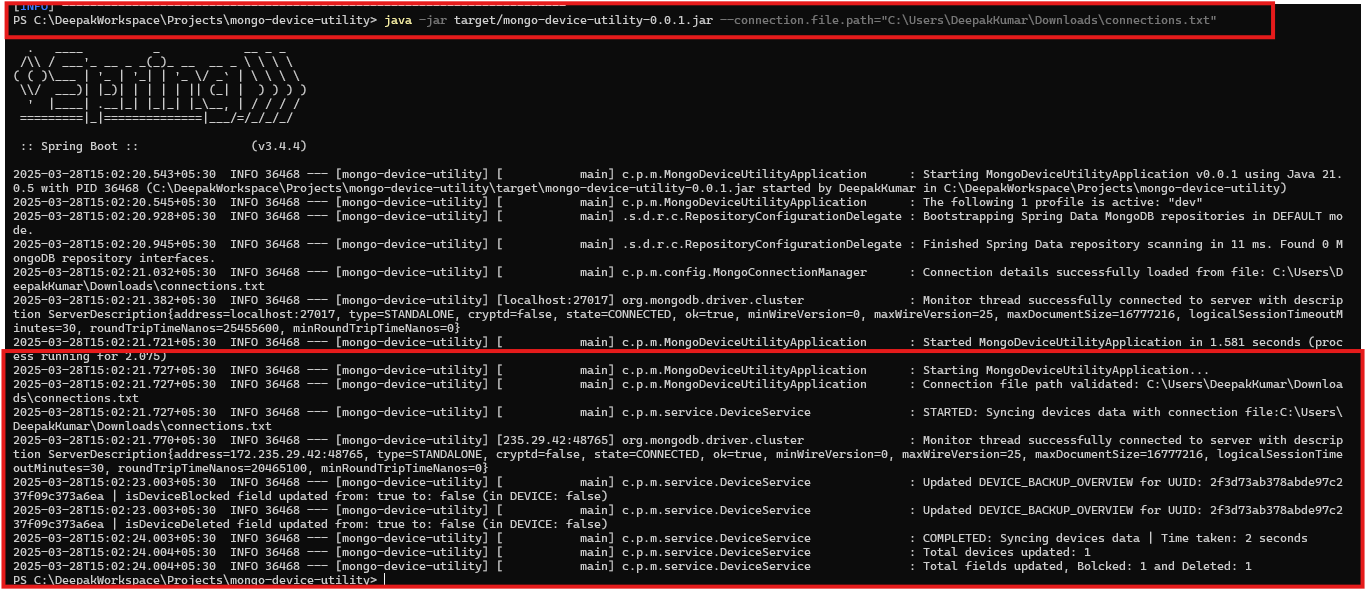
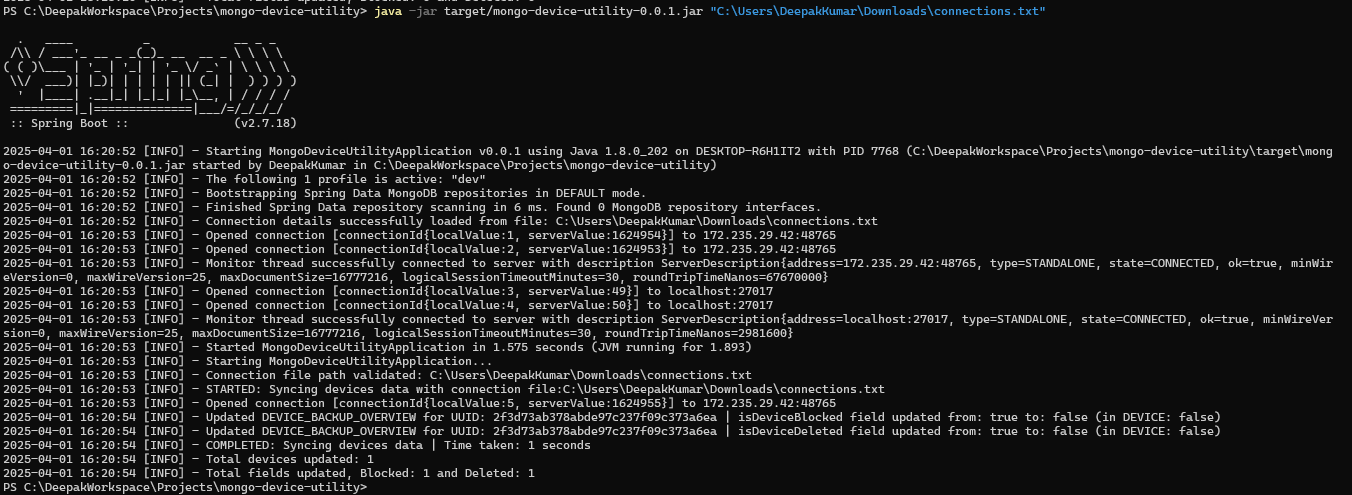
Downgrade Spring Boot version for JDK 8 compatibility, simplify file path handling, refactor MongoTemplate injection, and add Logback logging configuration
- Downgraded Spring Boot version from 3.4.4 to 2.7.18 to ensure compatibility with JDK 8, as the server is running JDK 8.
- Updated Java version configuration to 1.8 for compatibility with JDK 8 and Plugin settings to compile for JDK 8.
- Simplified command-line argument for connection file path; now the file can be passed directly without using the `--connection.file.path` argument.
- Refactored MongoTemplate usage in the `syncDevicesData` method to use constructor injection instead of local instantiation, following best practices for dependency injection.
- Introduced default values for `host` and `port` in MongoDB connection to avoid missing details.
- Added a Logback configuration for logging to both console and rolling file, with a retention policy of 15 days.

Changed region(s): [[0.0, 0.0, 1.0, 1.0]]

diff --git a/src/main/java/com/parablu/mongo_device_utility/service/DeviceService.java b/src/main/java/com/parablu/mongo_device_utility/service/DeviceService.java
@@ -21,7 +21,6 @@ import java.util.List;
 
 import org.slf4j.Logger;
 import org.slf4j.LoggerFactory;
-import org.springframework.beans.factory.annotation.Autowired;
 import org.springframework.data.mongodb.core.MongoTemplate;
 import org.springframework.data.mongodb.core.query.Criteria;
 import org.springframework.data.mongodb.core.query.Query;
@@ -37,21 +36,24 @@ public class DeviceService {
 
 	private static final Logger logger = LoggerFactory.getLogger(DeviceService.class);
 
-	@Autowired
-	private MongoConnectionManager connectionManager;
+	private final MongoConnectionManager connectionManager;
+	private final MongoTemplate mongoTemplate;
 
 	// Counters
 	private int totalUpdatedDevices = 0;
 	private int totalUpdatedBlockedFields = 0;
 	private int totalUpdatedDeletedFields = 0;
+	
+	public DeviceService(MongoConnectionManager connectionManager) {
+		this.connectionManager = connectionManager;
+		this.mongoTemplate = connectionManager.getMongoTemplateForClient("mongotemplate");
+	}
 
 	public void syncDevicesData(String connectionFilePath) {
 		long startTime = System.currentTimeMillis();
 		logger.info("STARTED: Syncing devices data with connection file:{}", connectionFilePath);
 
-		try {
-			MongoTemplate mongoTemplate = connectionManager.getMongoTemplateForClient("mongotemplate");
-			
+		try {	
 			List<Device> devices = mongoTemplate.findAll(Device.class);
 
 			if (devices.isEmpty()) {
@@ -74,27 +76,21 @@ public class DeviceService {
 
 				// Update only relevant fields if necessary
 				if (device.isBlocked() != backupOverview.isDeviceBolcked()) {
-					update.set("isDeviceBolcked", device.isBlocked());
-					updated = true;
-					logger.info(
-					    "Updated DEVICE_BACKUP_OVERVIEW for UUID: {} | isDeviceBlocked field updated from: {} to: {} (in DEVICE: {})",
-					    device.getDeviceUUID(),
-					    backupOverview.isDeviceBolcked(),    // Previous value in DEVICE_BACKUP_OVERVIEW
-					    device.isBlocked(),          // Updated value from DEVICE
-					    device.isBlocked()           // Showing the updated value again for clarity
-					);
+					try{
+						update.set("isDeviceBolcked", device.isBlocked());
+						updated = true;
+					}catch(Exception e){
+						logger.error("Error occurred while setting isDeviceBolcked field for device UUID: {}", device.getDeviceUUID(), e);
+					}
 				}
 
 				if (device.isDeleted() != backupOverview.isDeviceDeleted()) {
-					update.set("isDeviceDeleted", device.isDeleted());
-					updated = true;
-					logger.info(
-					    "Updated DEVICE_BACKUP_OVERVIEW for UUID: {} | isDeviceDeleted field updated from: {} to: {} (in DEVICE: {})",
-					    device.getDeviceUUID(),
-					    backupOverview.isDeviceDeleted(),
-					    device.isDeleted(),
-					    device.isDeleted()
-					);
+					try{
+						update.set("isDeviceDeleted", device.isDeleted());
+						updated = true;
+					}catch(Exception e){
+						logger.error("Error occurred while setting isDeviceDeleted field for device UUID: {}", device.getDeviceUUID(), e);
+					}
 				}
 
 				// Update the database only if there are changes
@@ -102,11 +98,25 @@ public class DeviceService {
 					// Update the relevant device backup overview record
 					mongoTemplate.updateFirst(query, update, DeviceBackupOverview.class);
 					
-					// After updating the database, update the counters
+					// After updating the database, update the counters and log the updates
 					if (device.isBlocked() != backupOverview.isDeviceBolcked()) {
+						logger.info(
+							    "Updated DEVICE_BACKUP_OVERVIEW for UUID: {} | isDeviceBlocked field updated from: {} to: {} (in DEVICE: {})",
+							    device.getDeviceUUID(),
+							    backupOverview.isDeviceBolcked(),    // Previous value in DEVICE_BACKUP_OVERVIEW
+							    device.isBlocked(),          // Updated value from DEVICE
+							    device.isBlocked()           // Showing the updated value again for clarity
+							);
 						totalUpdatedBlockedFields++;
 					}
 					if (device.isDeleted() != backupOverview.isDeviceDeleted()) {
+						logger.info(
+							    "Updated DEVICE_BACKUP_OVERVIEW for UUID: {} | isDeviceDeleted field updated from: {} to: {} (in DEVICE: {})",
+							    device.getDeviceUUID(),
+							    backupOverview.isDeviceDeleted(),
+							    device.isDeleted(),
+							    device.isDeleted()
+							);
 						totalUpdatedDeletedFields++;
 					}
 					totalUpdatedDevices++;

diff --git a/src/main/java/com/parablu/mongo_device_utility/MongoDeviceUtilityApplication.java b/src/main/java/com/parablu/mongo_device_utility/MongoDeviceUtilityApplication.java
@@ -43,17 +43,17 @@ public class MongoDeviceUtilityApplication implements CommandLineRunner {
 	public void run(String... args) throws Exception {
 		logger.info("Starting MongoDeviceUtilityApplication...");
 
-		// Retrieve the connection file path from the command-line arguments
-		String connectionFilePath = null;
-		for (String arg : args) {
-			if (arg.startsWith("--connection.file.path=")) {
-				connectionFilePath = arg.split("=")[1];
-			}
+		if (args.length == 0) {
+			logger.error("No connection file path provided.");
+			throw new IllegalArgumentException("Please provide the connection file path as the first argument.");
 		}
+
+		// Get the connection file path from argument
+		String connectionFilePath = args[0];
 
 		if (connectionFilePath == null || connectionFilePath.trim().isEmpty()) {
 			logger.error(
-					"Connection file path is not provided. Please provide a valid file path using --connection.file.path argument.");
+					"Connection file path is not provided. Please provide a valid file path argument.");
 			throw new IllegalArgumentException("Connection file path is required.");
 		}
 

diff --git a/src/main/java/com/parablu/mongo_device_utility/config/MongoConnectionManager.java b/src/main/java/com/parablu/mongo_device_utility/config/MongoConnectionManager.java
@@ -46,8 +46,8 @@ public class MongoConnectionManager {
 		// Default file path for connection details
 		String filePath = "src/main/resources/connections.txt";
 
-		if (args.containsOption("connection.file.path")) {
-			filePath = args.getOptionValues("connection.file.path").get(0);
+		if (args.getNonOptionArgs().size() > 0) {
+			filePath = args.getNonOptionArgs().get(0);
 		}
 
 		// Check if the file exists and is readable
@@ -79,6 +79,10 @@ public class MongoConnectionManager {
 				String password = connectionDetails.get(clientName + ".password");
 				String dbName = connectionDetails.get(clientName + ".db");
 
+				// Set default values if host or port is missing
+	            host = (host == null || host.isEmpty()) ? "localhost" : host;
+	            port = (port == null || port.isEmpty()) ? "27017" : port;
+	            
 				if (host == null || port == null || username == null || password == null || dbName == null) {
 					logger.error("Missing connection details for client: {}", clientName);
 					throw new IllegalArgumentException("Missing connection details for client: " + clientName);

diff --git a/README.md b/README.md
@@ -6,7 +6,7 @@ This utility is used to sync device data between a MongoDB collection `DEVICE` a
 
 Before you run the application, make sure you have the following:
 
-- Java 21
+- Java `JDK 8`
 - Maven 3.*.*
 - MongoDB client set up and running
 
@@ -36,6 +36,7 @@ Follow these steps to build and run the application:
 ### Step 1: Build the Project
 
 First, navigate to the project directory and run the following Maven command to build the project and skip tests during the build process:
+
 ```bash
 mvn clean package
 ```
@@ -43,16 +44,21 @@ mvn clean package
 ```bash
 mvn clean package -DskipTests
 ```
-This command will compile the project, package it into a JAR file, and place it in the `target/ directory` of your project.
+This command will compile the project, package it into a `JAR` file, and place it in the `target/ directory` of your project.
 
 ### Step 2: Run the Application
 After the build completes, you can run the application using the following command:
 
 ```bash
-java -jar target/mongo-device-utility-0.0.1.jar --connection.file.path="C:\path\to\connections.txt"
+java -jar target/mongo-device-utility-0.0.1.jar connections.txt
+```
+- `OR`
+
+```bash
+java -jar target/mongo-device-utility-0.0.1.jar "C:\path\to\connections.txt"
 ```
 
-Make sure to replace `"C:\path\to\connections.txt"` with the correct path to your `connections.txt` file if it's located elsewhere.
+Make sure to replace `"C:\path\to\connections.txt"` with the correct path to your `connections.txt` file if it's located elsewhere. If your `connection.txt`  present in same `folder/directory` give only filename `connections.txt`. 
 
 
 # Running the `.jar` File
@@ -69,16 +75,22 @@ Once you have Java installed, you can run the application directly from the comm
 - Run the `application` by executing the following command:
 
     ```bash
-    java -jar mongo-device-utility-0.0.1.jar --connection.file.path="C:\path\to\connections.txt"
+    java -jar mongo-device-utility-0.0.1.jar connections.txt
     ```
-> Make sure to replace the path `"C:\path\to\connections.txt"` or `"/path/to/connections.txt"` with the actual path to your `connections.txt` file.
+
+    - `OR`
+
+    ```bash
+    java -jar mongo-device-utility-0.0.1.jar "C:\path\to\connections.txt"
+    ```
+> Make sure to replace the path `"C:\path\to\connections.txt"` or `"/path/to/connections.txt"` with the actual path to your `connections.txt` file. If your `connection.txt`  present in same `folder/directory` give only filename `connections.txt`. 
 
 ### Troubleshooting
 - If you encounter any issues, check the following:
 
 - Connection Details: Ensure that the `MongoDB server` is running and the details in `connections.txt` are correct.
 
-- Java Version: Make sure you're running Java 21 or later.
+- Java Version: Make sure you're running Java JDK 8.
 
 - Maven Version: Ensure you're using Maven 3.. or later.
 
